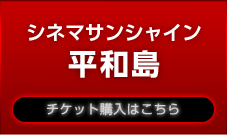
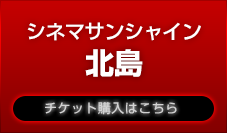
SASAKI-170 4DXマンガLP更新

diff --git a/lp/4dx/index.html b/lp/4dx/index.html
@@ -62,14 +62,14 @@ src="https://www.facebook.com/tr?id=233509890323398&ev=PageView&noscript=1"
                         <img src="/lp/4dx/images/kongetuno.png" alt="今月のオススメ映画はコレ!!">
                     </h2>
                     <div class="header">
-                        <h3>パイレーツ・オブ・カリビアン／最後の海賊</h3>
-                        <p>上映中</p>
+                        <h3>スパイダーマン：ホームカミング</h3>
+                        <p>8/11(祝・金)公開</p>
                     </div>
-                    <p class="serifu-left"><br>とにかくびしょ濡れで<br>私も海に潜っちゃった<br>のかと思った～</p>
-                    <p class="serifu-right">香織の意見はともかく、<br>今回の4DXは水量が<br>通常の２倍らしいわよ！</p>
+                    <p class="serifu-left"><br>私もアベンジャーズに<br>入りたーい！</p>
+                    <p class="serifu-right">香織の意見はともかく、<br>あの爽快感を体感できるのは4DXならではよね！</p>
                     <img src="/lp/4dx/images/left_ilasuto.png" class="kyara-left">
                     <img src="/lp/4dx/images/right_irasuto.png" class="kyara-right">
-                    <iframe width="626" height="352" src="https://www.youtube.com/embed/ohCls0jGz2M" frameborder="0" allowfullscreen></iframe>
+                    <iframe width="626" height="352" src="https://www.youtube.com/embed/ieBWL3tADWM?rel=0" frameborder="0" allowfullscreen></iframe>
                     <ul>
                         <li>
                             <a href="http://www.cinemasunshine.co.jp/theater/heiwajima/"><img src="/lp/4dx/images/bottan_heiwa.png" alt="シネマサンシャイン平和島"></a>
@@ -86,6 +86,9 @@ src="https://www.facebook.com/tr?id=233509890323398&ev=PageView&noscript=1"
                         <li>
                              <a href="http://www.cinemasunshine.co.jp/theater/aira/"><img src="/lp/4dx/images/bottan_aira.png" alt="シネマサンシャイン姶良"></a>
                         </li>
+                        <li>
+                             <a href="http://www.cinemasunshine.co.jp/theater/kitajima/"><img src="/lp/4dx/images/bottan_kitajima.png" alt="シネマサンシャイン北島"></a>
+                        </li>
                     </ul>
                 </div>
             </div>
@@ -96,16 +99,95 @@ src="https://www.facebook.com/tr?id=233509890323398&ev=PageView&noscript=1"
 
                 <div class="lineup-naka">
                     <div class="lineup-naka-naka">
-                        <h3>パイレーツ・オブ・カリビアン／最後の海賊</h3>
+                        <h3>ザ・マミー／呪われた砂漠の王女</h3>
                         <div class="lineup-naka-left">
                             <p class="text">
-                            孤高の海賊ジャック・スパロウの過去を知る最恐の敵、“海の死神”サラザールが解き放たれた時、海賊全滅へのカウントダウンは始まった。ジャックがサラザールの復讐から逃れる方法はただ一つ――＜最後の海賊＞のみが見つけ出せる伝説の秘宝＜ポセイドンの槍＞を手に入れること。かつてジャックと冒険を共にしたウィル、その息子ヘンリー、女性天文学者カリーナ、宿敵バルボッサなど、様々な運命が交差する中、最後に宝を手に入れるのは誰か？ そして、ジャックVS海の死神の決戦の行方は？ すべての謎が明かされる＜最後の冒険＞が、ついに幕を開ける！
+                            灼熱の太陽が降り注ぐ現代の中東で、米軍関係者のニック（トム・クルーズ）と考古学者のジェニー（アナベル・ウォーリス）は謎の地下空洞に隠された巨大な棺を発見。調査のため棺をイギリスに輸送するが、想定外の事態により飛行機はロンドン郊外へ墜落。即死であったはずのニックはなぜか無傷のまま遺体安置所で目を覚まし、脳裏に浮かぶ美しい女性の言葉に導かれるように、棺の行方を捜す。その棺に眠っていたのは、5000年前にファラオから裏切られ、復讐のために邪悪なモンスターと化すが、封印された古代エジプト王女アマネットであった。そして彼女は、ついに永い眠りから目覚めようとしていた―。
                             </p>
                             <p class="date">上映中</p>
                         </div>
                         <div class="lineup-naka-right">
-                            <img src="/lp/4dx/images/picture12.jpg" alt="パイレーツ・オブ・カリビアン／最後の海賊">
-                            <p class="copy">© 2017 Disney Enterprises, Inc. All Rights Reserved.</p>
+                            <img src="/lp/4dx/images/picture_13.jpg" alt="ザ・マミー／呪われた砂漠の王女">
+                            <p class="copy">©Universal Pictures</p>
+                        </div>
+                    </div>
+
+                    <div class="lineup-naka-naka">
+                        <h3>東京喰種　トーキョーグール</h3>
+                        <div class="lineup-naka-left">
+                            <p class="text">
+                            人を喰らう怪人、喰種(グール)が人間と共存する東京。さえない普通の大学生・カネキは事故に遭い、重傷を負う。病院に運び込まれた彼は事故の時に一緒にいた喰種の女性リゼの臓器を移植された事で半喰種になってしまう。喰種化した事に苦悩するカネキは以前から通い詰めていた喫茶店で働き始めるが、そこは喰種が集まる店だった。
+                            </p>
+                            <p class="date">上映中</p>
+                        </div>
+                        <div class="lineup-naka-right">
+                            <img src="/lp/4dx/images/picture_14.jpg" alt="東京喰種　トーキョーグール">
+                            <p class="copy">©2017「東京喰種」製作委員会 ©石田スイ／集英社</p>
+                        </div>
+                    </div>
+                </div>
+
+                <div class="lineup-naka-naka">
+                        <h3>トランスフォーマー／最後の騎士王</h3>
+                        <div class="lineup-naka-left">
+                            <p class="text">
+                            人「お前は故郷を破壊した。償いを求めるか？」トランスフォーマーの"創造主"に拘束され、人類を滅ぼすよう迫られるオプティマス・プライム。「はい、創造主様―。」幾度となく人類を救ってきたオプティマス・プライムが地球を去った後、メガトロン率いる悪の集団ディセプティコンたちは勢力を伸ばし続けていた。正義の集団 オートボットのリーダーになったバンブルビーは必死に地球を守ろうとしているが、世界は荒廃していき壊滅的状況に陥る。そんな中、オプティマスが地球に帰還した。人類の守護神オプティマス・プライムによって平穏が訪れるかと思われたが、彼は仲間であったバンブルビーと人類に刃を向けるのであった―。トランスフォーマーと人間の戦いが避けられない絶望の中で、未来を救う鍵は、過去の秘密―地球史から隠し続けられてきたトランスフォーマーの秘密―、そして、唯一の希望は“選ばれし者”の存在であると知った主人公ケイド・イェーガー。イェーガーは、英国貴族の謎めいた老人、オクスフォード大学の女教授、謎の少女との出会いを経て、トランスフォーマーと人間との繋がりが1000年以上前から始まり、独立戦争、ナポレオン戦争、第一次世界大戦などの歴史のターニングポイントにトランスフォーマーが深く関わっていたことを知る。さらに、神話の”アーサー王と円卓の騎士伝説”に関わる謎が、人類最大の危機を救うための重大な手がかりであることが分かり、イェーガーは唯一の可能性を信じ、立ち上がるのだった。トランスフォーマーと人類の戦いの果ては―?!
+                            </p>
+                            <p class="date">8/4(金)公開</p>
+                        </div>
+                        <div class="lineup-naka-right">
+                            <img src="/lp/4dx/images/picture_15.jpg" alt="トランスフォーマー／最後の騎士王">
+                            <p class="copy">© 2017 Paramount Pictures. All Rights Reserved. HASBRO, TRANSFORMERS, and all related characters are trademarks of Hasbro. © 2017 Hasbro. All Rights Reserved.</p>
+                        </div>
+                    </div>
+                </div>
+
+                <div class="lineup-naka-naka">
+                        <h3>スパイダーマン：ホームカミング</h3>
+                        <div class="lineup-naka-left">
+                            <p class="text">
+                            憧れの師トニー・スターク（＝アイアンマン）から貰った特製スーツを身に付け、一人前のヒーロー気取りの15歳、ピーター・パーカー（＝スパイダーマン）。ある日、スタークに恨みを抱く敵・バルチャーがNYを危機に陥れる。一日も早くアベンジャーズの一員として認められたいピーターは、”アベンジャーズに任せておけ”というスタークの忠告も聞かず、ひとり敵に挑むが・・・
+                            </p>
+                            <p class="date">8/11(祝・金)公開</p>
+                        </div>
+                        <div class="lineup-naka-right">
+                            <img src="/lp/4dx/images/picture_16.jpg" alt="スパイダーマン：ホームカミング">
+                            <p class="copy">© & ™ 2017 MARVEL. ©2017 CPII and LSC Film Corporation. All Rights Reserved.</p>
+                        </div>
+                    </div>
+                </div>
+
+                <div class="lineup-naka-naka">
+                        <h3>ワンダーウーマン</h3>
+                        <div class="lineup-naka-left">
+                            <p class="text">
+                            ワンダーウーマンが生まれたのは、女性だけのアマゾン族が暮らす、秘密の島。ダイアナ（ワンダーウーマン）はそのプリンセスだった。ある日、不時着したアメリカ人パイロットを助け、外の世界で戦争が起きていることを知る。彼女は自身の力で「世界を救いたい」と強く願い、二度と戻れないと知りながら故郷をあとにする。そんな彼女は、初めての世界で何を見て、何のために戦い、そして美女戦士となったのか。
+                            </p>
+                            <p class="date">8/25(金)公開</p>
+                        </div>
+                        <div class="lineup-naka-right">
+                            <img src="/lp/4dx/images/picture_17.jpg" alt="ワンダーウーマン">
+                            <p class="copy">© 2017 WARNER BROS. ENTERTAINMENT INC.AND RATPAC-DUNE ENTERTAINMENT LLC</p>
+                        </div>
+                    </div>
+                </div>
+
+                <div class="lineup-naka-naka">
+                        <h3>KING OF PRISM PRIDE the HERO</h3>
+                        <div class="lineup-naka-left">
+                            <p class="text">
+                            Over The Rainbowのライブで観たプリズムショーに憧れ、エーデルローズに入学した一条シン。そこでは７人の新入生たちが、未来のプリズムスタァになるべく学んでいた。
+しかし、法月仁が率いるシュワルツローズの陰謀は、エーデルローズを解散の危機へ追い込む。 エーデルローズを救うために無期限活動休止したOver The Rainbowのコウジは巨額の負債を返すためハリウッドでの映画音楽制作に。カヅキはストリート系としての自らの原点を見つめなおし、ヒロは己を高めるため特訓に打ち込む。
+それぞれの場所でプリズムスタァとしての自分と向き合うメンバーたち。先輩から後輩へと手渡されるバトン。あらためて問われる、仲間との絆。
+「俺たちが目指すのは勝者じゃない」
+これまで誰も見たことのない、プリズムジャンプの息もつかせぬ応酬。波乱のプリズムキングカップが、いよいよ開幕する。
+キング・オブ・プリズムの王冠は、いったい誰の頭上に輝くのか。新たな歴史が、いまここに刻まれる！
+                            </p>
+                            <p class="date">8/26(土)公開</p>
+                        </div>
+                        <div class="lineup-naka-right">
+                            <img src="/lp/4dx/images/picture_14.jpg" alt="KING OF PRISM PRIDE the HERO">
+                            <p class="copy">©T-ARTS／syn Sophia／エイベックス・ピクチャーズ／タツノコプロ／キングオブプリズムPH製作委員会</p>
                         </div>
                     </div>
                 </div>
